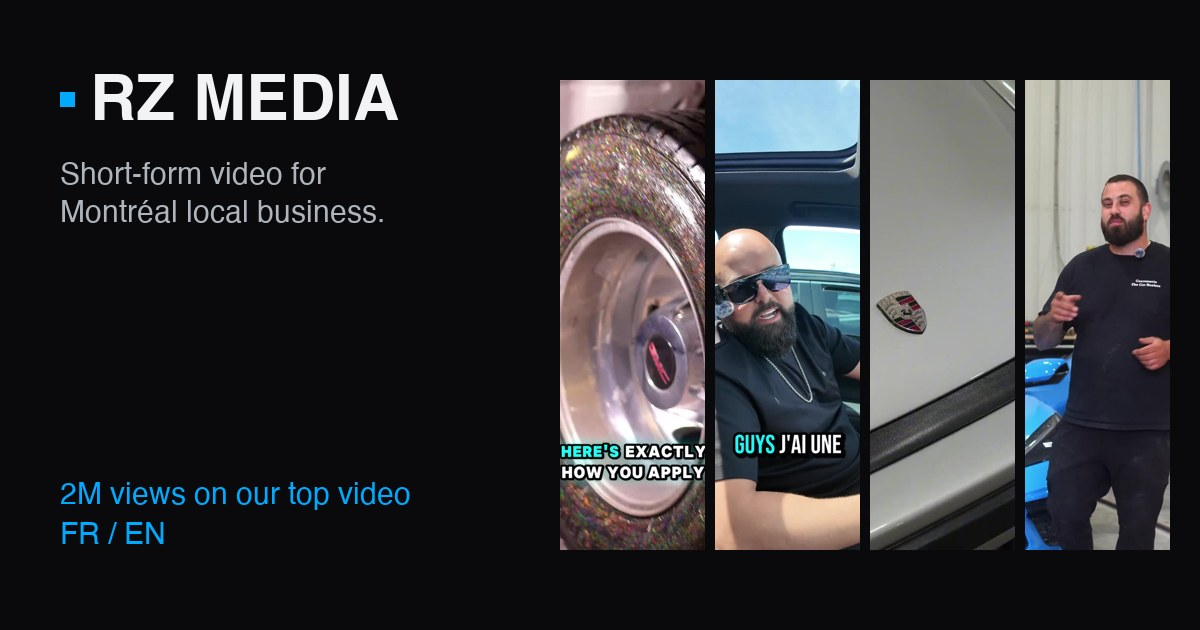
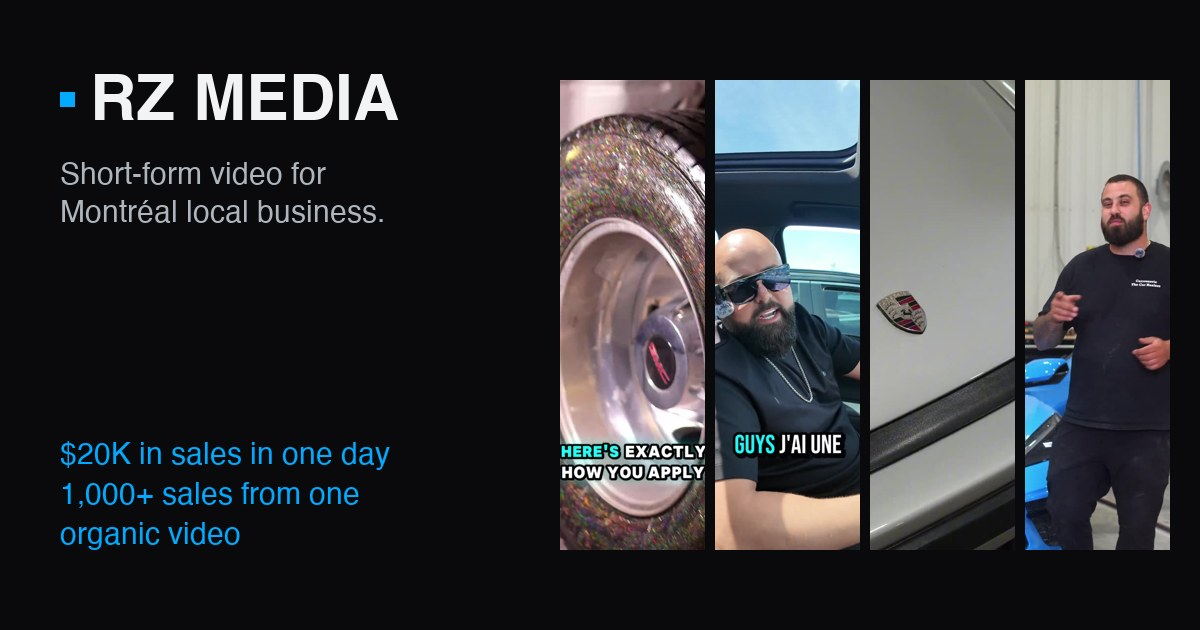
Rundown: client results instead of view totals ($20K/day Roofstar, 1,000+ sales MSS); preview card to match

Changed region(s): [[0.0308, 0.6937, 0.3392, 0.8746]]

diff --git a/index.html b/index.html
@@ -8,7 +8,7 @@
 <meta property="og:type" content="website">
 <meta property="og:url" content="https://rz-media-portfolio.vercel.app/">
 <meta property="og:title" content="RZ Media — Selected Work">
-<meta property="og:description" content="Short-form video for Montréal local business. 2M views on our top video.">
+<meta property="og:description" content="Short-form video for Montréal local business. $20K in sales in one day for a roofer. 1,000+ sales from one organic video.">
 <meta property="og:image" content="https://rz-media-portfolio.vercel.app/og.jpg">
 <meta property="og:image:width" content="1200">
 <meta property="og:image:height" content="630">
@@ -73,20 +73,15 @@
   .intro{ display:flex; align-items:center; justify-content:space-between; gap:clamp(20px,4vw,48px); }
   .intro .reel{ width:clamp(150px,22vw,230px); aspect-ratio:9/16; object-fit:cover; background:#000; border:1px solid var(--line); flex:none; }
   @media (max-width:640px){ .intro{ gap:16px; } .intro .reel{ width:36vw; } .intro .howto{ font-size:10px; } }
-  .rundown{ display:grid; grid-template-columns:repeat(5,minmax(0,1fr)); border:1px solid var(--line); margin-bottom:22px; }
+  .rundown{ display:grid; grid-template-columns:repeat(auto-fit,minmax(200px,1fr)); border:1px solid var(--line); margin-bottom:22px; }
   .rundown .stat{ padding:16px 18px; border-right:1px solid var(--line); display:flex; flex-direction:column; gap:6px; }
   .rundown .stat:last-child{ border-right:0; }
   .rundown .n{ font-family:'Bricolage Grotesque',sans-serif; font-weight:700; font-size:clamp(22px,4vw,32px); letter-spacing:-.02em; line-height:1; }
   .rundown .stat:first-child .n{ color:var(--blue); }
   @media (max-width:640px){
-    .rundown{ grid-template-columns:repeat(2,minmax(0,1fr)); }
-    .rundown .stat{ border-bottom:1px solid var(--line); }
-    .rundown .stat:nth-child(odd){ border-right:1px solid var(--line); }
-    .rundown .stat:nth-child(even){ border-right:0; }
-    .rundown .stat:first-child{ grid-column:1 / -1; border-right:0; }
-    .rundown .stat:first-child ~ .stat:nth-child(even){ border-right:1px solid var(--line); }
-    .rundown .stat:first-child ~ .stat:nth-child(odd){ border-right:0; }
-    .rundown .stat:nth-last-child(-n+2){ border-bottom:0; }
+    .rundown{ grid-template-columns:1fr; }
+    .rundown .stat{ border-right:0; border-bottom:1px solid var(--line); }
+    .rundown .stat:last-child{ border-bottom:0; }
   }
   .quote{ display:block; width:100%; text-align:left; background:none; color:inherit; font:inherit; cursor:pointer; border:0; border-left:3px solid var(--blue); padding:6px 0 6px 18px; margin:0 0 22px; }
   .quote .q{ display:block; font-family:'Bricolage Grotesque',sans-serif; font-weight:600; font-size:clamp(17px,2.6vw,22px); line-height:1.3; letter-spacing:-.01em; }
@@ -672,7 +667,7 @@ const I18N = {
     intro:"Short-form video for Montréal local business.",
     quoteBy:"A Car Healers customer, on camera — \"I found you on Instagram, read the comments, and you were number one.\" · watch ▸",
     howTo:"How to watch: every section says what to look for. Tap a video to see why it worked.",
-    lookFor:"Look for", statTotal:"Instagram views on reels we made with clients", statReels:"client reels posted with us", statBest:"views on our top video", statVideos:"videos below", statBrands:"brands", statLang:"we shoot in both",
+    lookFor:"Look for", r1n:"$20K", r1:"in sales in one day · Roofstar", r2n:"1,000+", r2:"sales from one organic video · MSS Tire Shine", r3n:"FR / EN", r3:"film · edit · post · ads, one team", statBest:"views on our top video", statVideos:"videos below", statBrands:"brands", statLang:"we shoot in both",
     all:"All work", mostViewed:"\u2193 Most viewed", views:"Views", viewsWord:"views",
     why:"Why it worked", kicker:"Work with us",
     ctaH:'Your <em>turn</em>.',
@@ -684,7 +679,7 @@ const I18N = {
     intro:"Vidéo courte pour les commerces de Montréal.",
     quoteBy:"Une cliente de Car Healers, devant la caméra · voir ▸",
     howTo:"Comment regarder : chaque section dit quoi remarquer. Touchez une vidéo pour voir pourquoi elle a marché.",
-    lookFor:"À remarquer", statTotal:"vues Instagram sur les reels faits avec nos clients", statReels:"reels clients publiés avec nous", statBest:"vues sur notre meilleure vidéo", statVideos:"vidéos ci-dessous", statBrands:"marques", statLang:"on tourne dans les deux",
+    lookFor:"À remarquer", r1n:"20 000 $", r1:"de ventes en une journée · Roofstar", r2n:"1 000+", r2:"ventes avec une seule vidéo organique · MSS Tire Shine", r3n:"FR / EN", r3:"tournage · montage · publication · pubs, une seule équipe", statBest:"vues sur notre meilleure vidéo", statVideos:"vidéos ci-dessous", statBrands:"marques", statLang:"on tourne dans les deux",
     all:"Tout", mostViewed:"\u2193 Plus vues", views:"Vues", viewsWord:"vues",
     why:"Pourquoi ça a marché", kicker:"Travaillons ensemble",
     ctaH:'À <em>vous</em>.',
@@ -723,9 +718,9 @@ function buildRundown(){
   if (!CLIPS.length){ rundownEl.innerHTML = ''; return; }
   const best = Math.max(...CLIPS.map(c => c.views || 0));
   const brands = new Set(CLIPS.map(c => c.client)).size;
-  /* RZ totals, counted on Instagram 2026-10-07 (collab reels with @rzmediagency; TikTok not included) */
+  /* Client results — figures given by Yafet, 2026-10-07 */
   rundownEl.innerHTML = [
-    ['2.4M+', t('statTotal')], [fmtViews(best), t('statBest')], ['40+', t('statReels')], [brands, t('statBrands')], ['FR / EN', t('statLang')]
+    [t('r1n'), t('r1')], [t('r2n'), t('r2')], [t('r3n'), t('r3')]
   ].map(([n,k]) => `<div class="stat"><span class="n">${n}</span><span class="mono-label">${k}</span></div>`).join('');
 }
 function buildFilters(){
